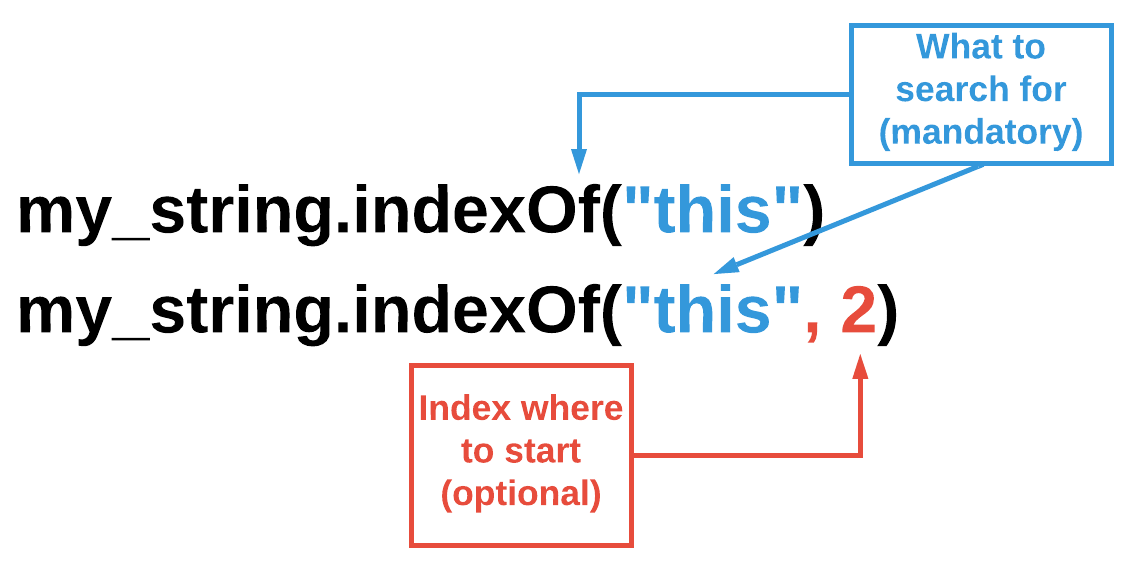
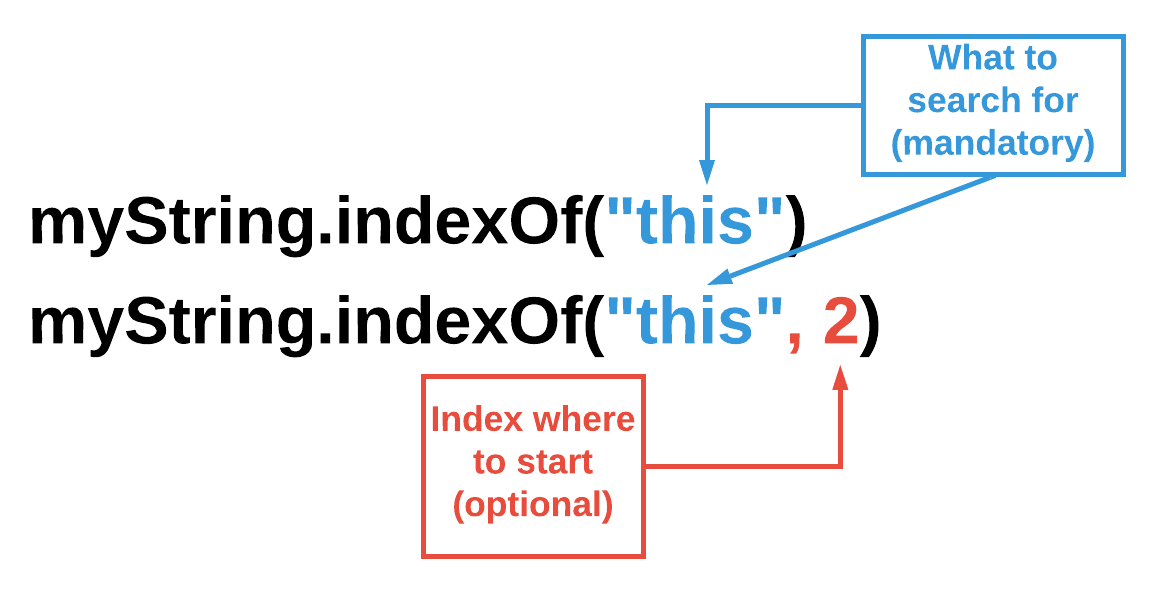
images and variables updated through string methods

Changed region(s): [[0.0, 0.0298, 0.9859, 0.9842], [0.5546, 0.6263, 0.7702, 0.8053]]

diff --git a/.guides/content/Uppercase---Lowercase-edc2.md b/.guides/content/Uppercase---Lowercase-edc2.md
@@ -6,21 +6,21 @@ The `toUpperCase()` method returns a copy of the original string with all upperc
 
 ![.guides/img/StringToUpperCase](.guides/img/StringToUpperCase.png)
 
-**Translation:** Convert all the characters of `my_string` to uppercase.
+**Translation:** Convert all the characters of `myString` to uppercase.
 
 ```java
-String my_string = "the big brown dog";
+String myString = "the big brown dog";
 
-System.out.println(my_string.toUpperCase());
+System.out.println(myString.toUpperCase());
 ```
 
 {Try it}(sh .guides/bg.sh javac code/strings/UpperLowerCase.java java -cp code/strings/ UpperLowerCase 1)
 
 |||challenge
 ## What happens if you:
-* Set `my_string` to `"ThE bIg BrOwN dOg"`?
-* Set `my_string` to `"THE BIG BROWN DOG"`?
-* Set `my_string` to `"123!@#"`?
+* Set `myString` to `"ThE bIg BrOwN dOg"`?
+* Set `myString` to `"THE BIG BROWN DOG"`?
+* Set `myString` to `"123!@#"`?
 
 |||
 
@@ -31,18 +31,18 @@ System.out.println(my_string.toUpperCase());
 The `toLowerCase()` method creates a copy of a string, and returns the copy with all lowercase characters. Like the `toUpperCase()` method, the `toLowerCase()` does not take any parameters either.
 
 ```java
-String my_string = "THE BIG BROWN DOG";
+String myString = "THE BIG BROWN DOG";
 
-System.out.println(my_string.toLowerCase());
+System.out.println(myString.toLowerCase());
 ```
 
 {Try it}(sh .guides/bg.sh javac code/strings/UpperLowerCase.java java -cp code/strings/ UpperLowerCase 3)
 
 |||challenge
 ## What happens if you:
-* Set `my_string` to `"tHe BiG bRoWn DoG"`?
-* Set `my_string` to `"the big brown dog"`?
-* Set `my_string` to `"214%#%"`?
+* Set `myString` to `"tHe BiG bRoWn DoG"`?
+* Set `myString` to `"the big brown dog"`?
+* Set `myString` to `"214%#%"`?
 
 |||
 

diff --git a/.guides/content/Index-Of-b28e.md b/.guides/content/Index-Of-b28e.md
@@ -8,7 +8,7 @@ Similar to the `startsWith()` method, the `indexOf()` method searches a specific
 
 <details>
   <summary><strong>The lastIndexOf() method</strong></summary>
-  You can use the <code>lastIndexOf()</code> method to search for a specific character(s) in a string that occurs last. Here is an example, given the string <code>this is his string</code>, <code>my_string.lastIndexOf("his")</code> will return <code>8</code>. If you don't want the system to search the whole string, you can specify an index as a second parameter to direct the system where to start searching.
+  You can use the <code>lastIndexOf()</code> method to search for a specific character(s) in a string that occurs last. Here is an example, given the string <code>this is his string</code>, <code>myString.lastIndexOf("his")</code> will return <code>8</code>. If you don't want the system to search the whole string, you can specify an index as a second parameter to direct the system where to start searching.
 </details><br>
 
 ```java
